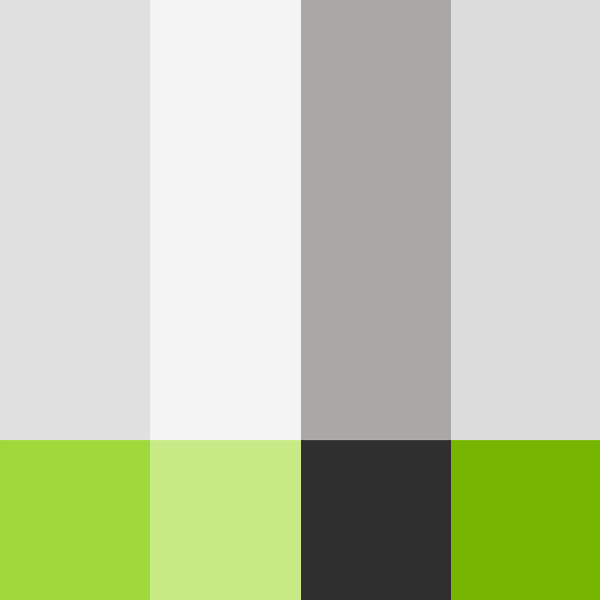
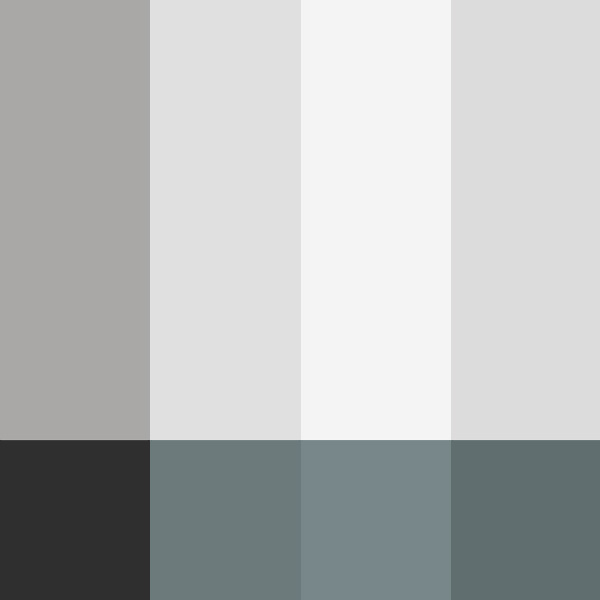
Updated to the new colors for Oppenfotografi

diff --git a/css/oppenfotografi.css b/css/oppenfotografi.css
@@ -8,7 +8,7 @@
 }
 
 #color-profile ul li#color-1 {
-	background-color: #A1D83B;
+	background-color: #778789;
 }
 
 #color-profile ul li#color-2 {
